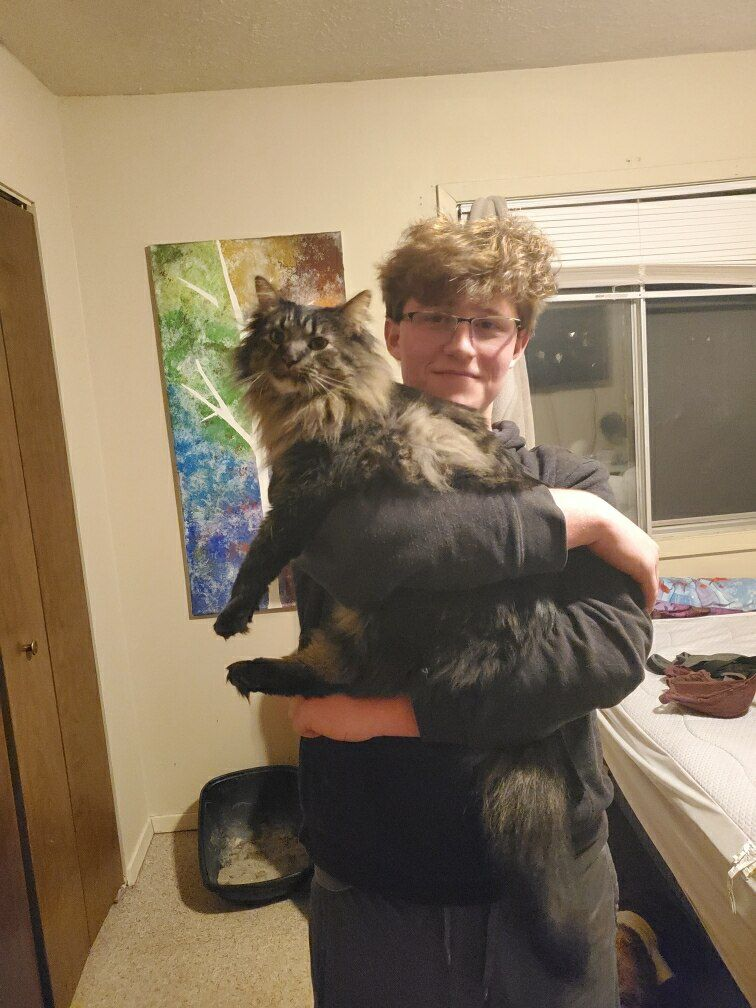
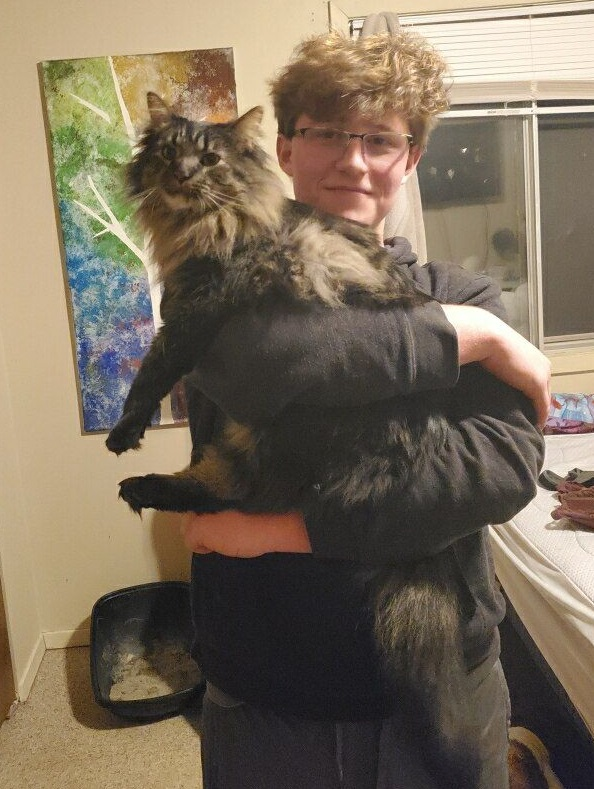
Crop photos

diff --git a/src/pages/home.js b/src/pages/home.js
@@ -3,7 +3,12 @@ import Link from 'next/link';
 import Image from 'next/image';
 import styles from './styles/home.module.scss'
 
-import cornHacks from '../public/my-photos/cornhacks.jpg'
+import cornHacks from '../public/my-photos/cornhacks.jpg';
+import speedway from '../public/my-photos/speedway.jpg';
+import jobFair from '../public/my-photos/job-fair-2022.jpg';
+import prom from '../public/my-photos/prom.jpg';
+import wilbur from '../public/my-photos/wilbur.jpg';
+import spriteCranberry from '../public/my-photos/sprite-cranberry.jpg';
 import photoWithGageFriends from '../public/my-photos/with-gage-friends.jpg';
 
 export default function Home() {
@@ -13,8 +18,13 @@ export default function Home() {
   return (
     <div className={styles.homeContainer}>
       <div className={styles.photoContainer}>
-        <img src={cornHacks} alt={"Picture is of team mates and I during a hackathon event looking tired."}/>
-        <img src={photoWithGageFriends} alt={"Me with my little brother and some friends."}/>
+        <Image width={1000} height={450} src={cornHacks} alt={"Picture is of team mates and I during a hackathon event looking tired."}/>
+        <Image src={speedway} alt={"Me with my little brother and some friends."}/>
+        <Image src={jobFair} alt={"Me with my little brother and some friends."}/>
+        <Image width={900} height={700} src={prom} alt={"Me with my little brother and some friends."}/>
+        <Image src={wilbur} alt={"Me with my little brother and some friends."}/>
+        <Image src={spriteCranberry} alt={"Me with my little brother and some friends."}/>
+        <Image width={500} height={500} src={photoWithGageFriends} alt={"Me with my little brother and some friends."}/>
       </div>
       <div className={styles.introductionContainer}>
         <p>{tab}My name is Connor Kildare. I am a Junior in Software Engineering at the University of Nebraska - Lincoln. I am proficient in C#, React, and JavaScript. I am also familiar with C, Python, Jave, etc. </p>
